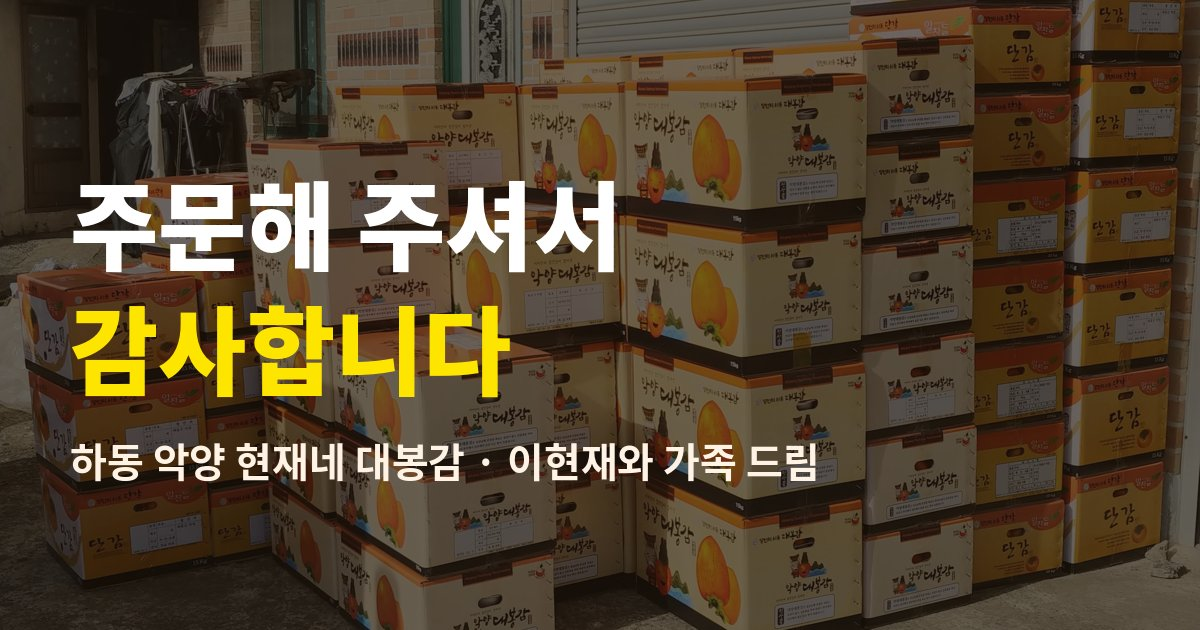
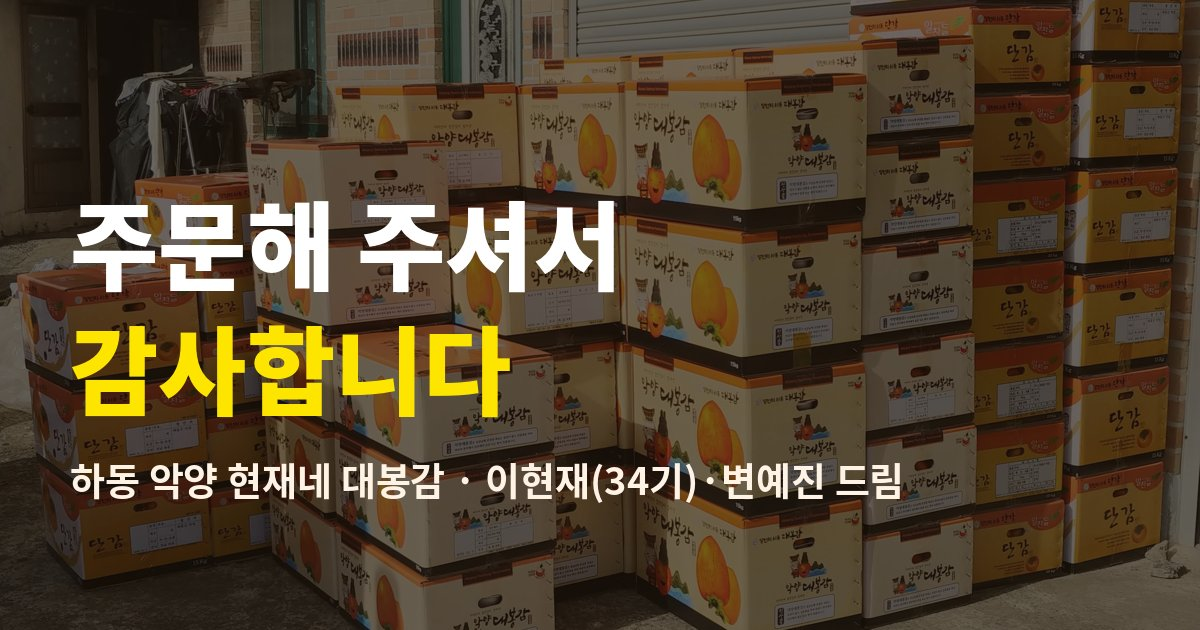
감사 페이지 발송 명의를 이현재(34기)·변예진으로 변경
Claude-Session: https://claude.ai/code/session_01Cd11F4Rkg9DzgSomMEryTB

diff --git a/thanks/dongmun/index.html b/thanks/dongmun/index.html
@@ -4,10 +4,10 @@
 <meta charset="utf-8">
 <meta name="viewport" content="width=device-width, initial-scale=1">
 <title>주문해 주셔서 감사합니다 — ROTC 선후배 동문께 드리는 감사</title>
-<meta name="description" content="보내 주신 마음 덕분에 올해 대봉감이 제 갈 곳을 찾아가고 있습니다. 이현재와 가족 드림.">
+<meta name="description" content="보내 주신 마음 덕분에 올해 대봉감이 제 갈 곳을 찾아가고 있습니다. 이현재(34기)·변예진 드림.">
 <meta property="og:type" content="website">
 <meta property="og:title" content="주문해 주셔서 감사합니다">
-<meta property="og:description" content="보내 주신 마음 덕분에 올해 대봉감이 제 갈 곳을 찾아가고 있습니다. 하동 악양 현재네 대봉감, 이현재와 가족 드림.">
+<meta property="og:description" content="보내 주신 마음 덕분에 올해 대봉감이 제 갈 곳을 찾아가고 있습니다. 하동 악양 현재네 대봉감, 이현재(34기)·변예진 드림.">
 <meta property="og:image" content="https://hupet77.github.io/daebonggam/img/og_thanks_dongmun.jpg">
 <meta property="og:image:width" content="1200">
 <meta property="og:image:height" content="630">
@@ -60,7 +60,7 @@ footer .big{font-family:'Gowun Batang',serif;font-size:22px;color:#fff;margin-bo
 <p>올해는 태풍 없이 감이 너무 많이 열려 걱정이 컸습니다. 염치 불고하고 드린 부탁에 존경하는 선배님, 사랑하는 후배님들께서 한 상자씩 마음을 보태 주셨습니다.</p>
 <p>덕분에 부모님 얼굴에도 웃음이 돌아왔습니다. 감나무 밭에서, 늦은 밤 창고 불빛 아래에서 한 알 한 알 고르고 담은 감입니다. 맛있게 드시고 주변에도 나눠 주세요.</p>
 <p>정말 고맙습니다.</p>
-<p class="sign">하동 악양에서, 이현재와 가족 드림</p>
+<p class="sign">하동 악양에서, 이현재(34기)·변예진 드림</p>
 </section>
 
 <section class="story">

diff --git a/thanks/index.html b/thanks/index.html
@@ -4,10 +4,10 @@
 <meta charset="utf-8">
 <meta name="viewport" content="width=device-width, initial-scale=1">
 <title>주문해 주셔서 감사합니다 — 하동 악양 현재네 대봉감</title>
-<meta name="description" content="보내 주신 마음 덕분에 올해 대봉감이 제 갈 곳을 찾아가고 있습니다. 이현재와 가족 드림.">
+<meta name="description" content="보내 주신 마음 덕분에 올해 대봉감이 제 갈 곳을 찾아가고 있습니다. 이현재(34기)·변예진 드림.">
 <meta property="og:type" content="website">
 <meta property="og:title" content="주문해 주셔서 감사합니다">
-<meta property="og:description" content="보내 주신 마음 덕분에 올해 대봉감이 제 갈 곳을 찾아가고 있습니다. 하동 악양 현재네 대봉감, 이현재와 가족 드림.">
+<meta property="og:description" content="보내 주신 마음 덕분에 올해 대봉감이 제 갈 곳을 찾아가고 있습니다. 하동 악양 현재네 대봉감, 이현재(34기)·변예진 드림.">
 <meta property="og:image" content="https://hupet77.github.io/daebonggam/img/og_thanks.jpg">
 <meta property="og:image:width" content="1200">
 <meta property="og:image:height" content="630">
@@ -60,7 +60,7 @@ footer .big{font-family:'Gowun Batang',serif;font-size:22px;color:#fff;margin-bo
 <p>올해는 태풍 없이 감이 너무 많이 열려 걱정이 컸습니다. 염치 불고하고 드린 부탁에 동기들과 선후배 동문들이 한 상자씩 마음을 보태 주셨습니다.</p>
 <p>덕분에 부모님 얼굴에도 웃음이 돌아왔습니다. 감나무 밭에서, 늦은 밤 창고 불빛 아래에서 한 알 한 알 고르고 담은 감입니다. 맛있게 드시고 주변에도 나눠 주세요.</p>
 <p>정말 고맙습니다.</p>
-<p class="sign">하동 악양에서, 이현재와 가족 드림</p>
+<p class="sign">하동 악양에서, 이현재(34기)·변예진 드림</p>
 </section>
 
 <section class="story">

diff --git a/thanks/dongi/index.html b/thanks/dongi/index.html
@@ -4,10 +4,10 @@
 <meta charset="utf-8">
 <meta name="viewport" content="width=device-width, initial-scale=1">
 <title>주문해 주셔서 감사합니다 — 동기들에게 전하는 감사</title>
-<meta name="description" content="보내 주신 마음 덕분에 올해 대봉감이 제 갈 곳을 찾아가고 있습니다. 이현재와 가족 드림.">
+<meta name="description" content="보내 주신 마음 덕분에 올해 대봉감이 제 갈 곳을 찾아가고 있습니다. 이현재(34기)·변예진 드림.">
 <meta property="og:type" content="website">
 <meta property="og:title" content="주문해 주셔서 감사합니다">
-<meta property="og:description" content="보내 준 마음 덕분에 올해 대봉감이 제 갈 곳을 찾아가고 있네. 하동 악양 현재네 대봉감, 이현재와 가족 드림.">
+<meta property="og:description" content="보내 준 마음 덕분에 올해 대봉감이 제 갈 곳을 찾아가고 있네. 하동 악양 현재네 대봉감, 이현재(34기)·변예진 드림.">
 <meta property="og:image" content="https://hupet77.github.io/daebonggam/img/og_thanks_dongi.jpg">
 <meta property="og:image:width" content="1200">
 <meta property="og:image:height" content="630">
@@ -61,7 +61,7 @@ footer .big{font-family:'Gowun Batang',serif;font-size:22px;color:#fff;margin-bo
 <p>덕분에 부모님 얼굴에도 웃음이 돌아왔네. 감나무 밭에서, 늦은 밤 창고 불빛 아래에서 한 알 한 알 고르고 담은 감이니 맛있게 먹고 주변에도 나눠 주게.</p>
 <p>약속대로 판매 수익금 일부는 발전기금으로 후원하겠네.</p>
 <p>정말 고맙네, 동기들.</p>
-<p class="sign">하동 악양에서, 이현재와 가족 드림</p>
+<p class="sign">하동 악양에서, 이현재(34기)·변예진 드림</p>
 </section>
 
 <section class="story">
